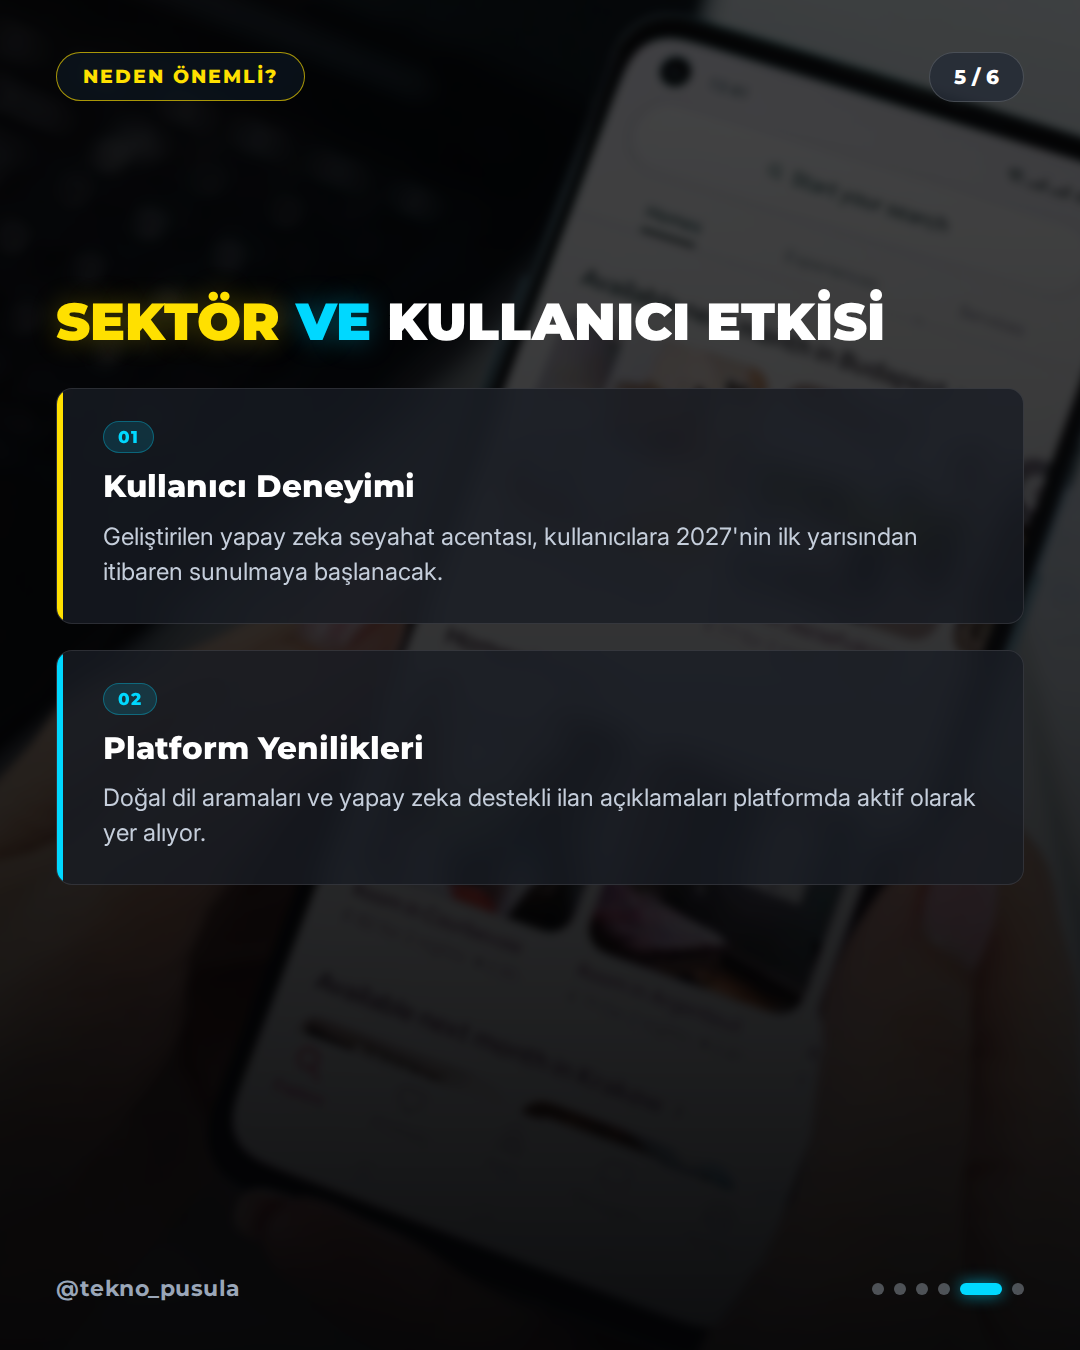
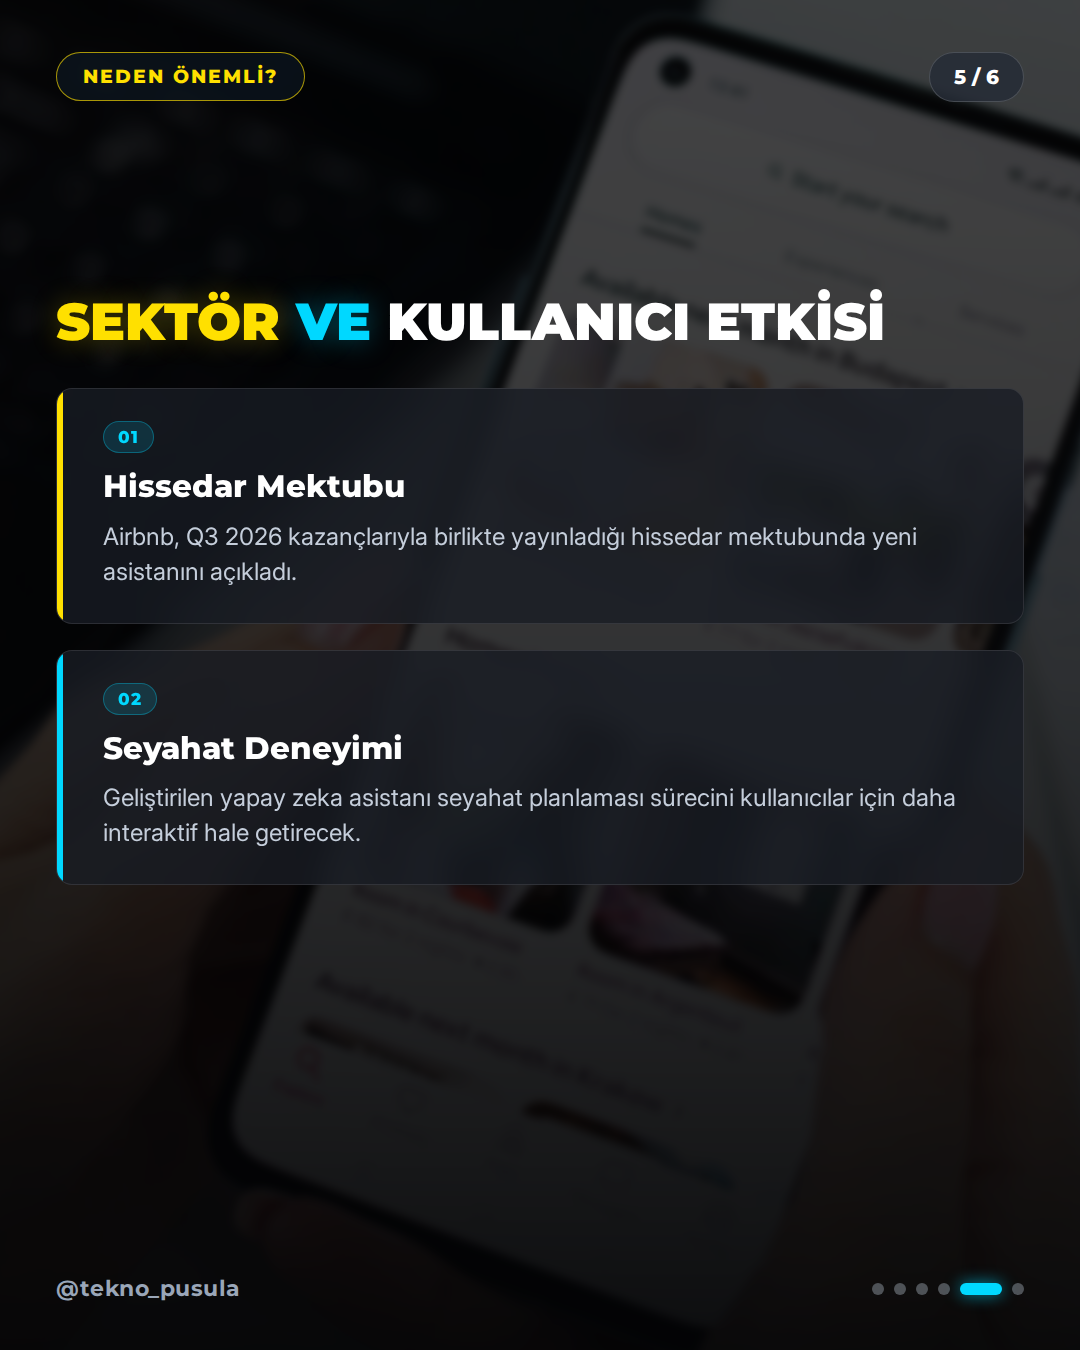
🤖 post: 2026-11-06 12:00 – Airbnb is threatening to launch an AI travel agent next year

Changed region(s): [[0.0917, 0.3422, 0.8556, 0.4356], [0.0917, 0.5289, 0.6111, 0.6222], [0.6417, 0.56, 0.8861, 0.6222]]

diff --git a/output/2026-11-06/02-1200-airbnb-is-threatening-to-launch-an-ai-travel-age/captions.md b/output/2026-11-06/02-1200-airbnb-is-threatening-to-launch-an-ai-travel-age/captions.md
@@ -2,50 +2,62 @@
 
 ## INSTAGRAM
 
-Airbnb'den dev yapay zeka hamlesi! Q3 2026 hissedar mektubunda duyurulan yeni yapay zeka seyahat acentası, seyahat planlama deneyimini tamamen dönüştürmeye hazırlanıyor. Şirket, doğal dil aramaları ve ilan açıklamalarının ardından bu yeni deneyimi 2027 yılının ilk yarısında kullanıcılarla buluşturacak. Sektördeki bu gelişme hakkında ne düşünüyorsunuz? Airbnb'nin yeni yapay zeka seyahat acentası seyahat planlama alışkanlıklarınızı nasıl değiştirecek? Teknoloji dünyasındaki en güncel gelişmeler için takipte kalın! Kaynak: Engadget ve The Verge
+Airbnb seyahat deneyimini kökten değiştirecek yeni yapay zeka asistanını duyurdu! 🌍 Q3 2026 hissedar mektubunda açıklanan bu yenilik, seyahat planlamasını daha interaktif hale getirecek.
 
-#Airbnb #YapayZeka #Teknoloji #Seyahat #Gelecek #AI #TravelTech #Inovasyon
+Asistan, kullanıcıların sorularına göre gerçeğe yakın arayüzler oluşturabilecek. Haritalar, fotoğraflar ve seyahat programları da bu deneyime dahil.
+
+Yeni yapay zeka deneyimi 2027 yılının ilk yarısında kullanıcılara sunulmaya başlanacak. Daha önce doğal dil ile arama ve ilan açıklamaları gibi özellikler de hayata geçirilmişti.
+
+Airbnb'nin yeni yapay zeka asistanı seyahat planlarınızı nasıl etkiler? Teknoloji dünyasındaki gelişmeleri kaçırmamak için bizi takipte kalın!
+
+Kaynak: The Verge, Engadget
+
+#Airbnb #YapayZeka #ArtificialIntelligence #Seyahat #Travel #Teknoloji #Technology #TheVerge #Engadget
 
 ## TIKTOK
 
-Airbnb Q3 2026 mektubunda duyurdu: Yeni yapay zeka seyahat acentası 2027'nin ilk yarısında geliyor! Doğal dil aramaları ve yapay zeka destekli ilanlar zaten aktif. Airbnb'nin yeni yapay zeka seyahat acentası seyahat planlama alışkanlıklarınızı nasıl değiştirecek? Teknoloji dünyasındaki en güncel gelişmeler için takipte kalın! Kaynak: The Verge
+Airbnb'den seyahat deneyimini değiştirecek devrim niteliğinde yapay zeka asistanı! 2027'de geliyor. Sizin planlarınızı nasıl etkiler? Kaynak: The Verge, Engadget
 
-#Airbnb #YapayZeka #Seyahat #Teknoloji #Gelecek
+#Airbnb #YapayZeka #Seyahat #Teknoloji
 
 ## X
 
-Airbnb, Q3 2026 mektubunda yeni yapay zeka seyahat acentasını duyurdu! 2027'nin ilk yarısında kullanıcılarla buluşacak. Sizce bu hamle seyahat alışkanlıklarını nasıl değiştirecek? Kaynak: Engadget
+Airbnb, seyahat deneyimini dönüştürecek yeni yapay zeka asistanını duyurdu! Gerçekçi arayüz ve zengin içerik sunacak bu deneyim, 2027'nin ilk yarısında kullanıma sunulacak. Kaynak: The Verge, Engadget
 
 #Airbnb #YapayZeka
 
 ## THREADS
 
-Airbnb'den Yeni Yapay Zeka Hamlesi
+Airbnb'den Yeni Yapay Zeka Asistanı
 
-Airbnb, Q3 2026 hissedar mektubunda yeni yapay zeka seyahat acentasını duyurdu. Doğal dil aramaları ve ilan açıklamalarının ardından bu yeni deneyim 2027'nin ilk yarısında sunulmaya başlanacak.
+Airbnb, Q3 2026 hissedar mektubunda seyahat deneyimini dönüştürecek yeni yapay zeka asistanını duyurdu. Yeni asistan; haritalar, fotoğraflar ve seyahat programları içeren gerçeğe yakın bir arayüz sunacak ve 2027'nin ilk yarısında kullanıma sunulacak. 💭
 
-Airbnb'nin yeni yapay zeka seyahat acentası seyahat planlama alışkanlıklarınızı nasıl değiştirecek? Teknoloji dünyasındaki en güncel gelişmeler için takipte kalın!
+Airbnb'nin yeni yapay zeka asistanı seyahat planlarınızı nasıl etkiler?
 
-💭 Kaynak: Engadget ve The Verge
+Kaynak: The Verge, Engadget
 
 #Airbnb
 
 ## LINKEDIN
 
-Teknoloji ve seyahat sektörünün kesişiminde önemli bir gelişme yaşandı. Airbnb, Q3 2026 hissedar mektubunda yeni yapay zeka seyahat acentasını resmi olarak duyurdu. Şirket, halihazırda sunduğu doğal dil aramaları ve yapay zeka destekli ilan açıklamaları özelliklerini bir adım öteye taşıyarak bu yeni deneyimi 2027 yılının ilk yarısında kullanıcılarla buluşturacak. Sektördeki bu yenilikçi hamle, kullanıcı deneyimini ve platform dinamiklerini yakından etkileyecek.
+Teknoloji ve seyahat sektörü entegrasyonunda yeni bir adım: Airbnb, seyahat deneyimini dönüştürecek yeni yapay zeka asistanını duyurdu.
 
-Airbnb'nin yeni yapay zeka seyahat acentası seyahat planlama alışkanlıklarınızı nasıl değiştirecek? Teknoloji dünyasındaki en güncel gelişmeler için takipte kalın!
+Q3 2026 kazançlarıyla birlikte açıklanan bu yenilik; doğal dil işleme, akıllı arama ve otomatik ilan açıklamalarının ardından eklenen kapsamlı bir asistan deneyimi sunuyor. Gerçekçi arayüzü sayesinde haritalar, fotoğraflar ve özel seyahat programları tek bir noktada birleşecek.
 
-Kaynak: Engadget ve The Verge
+Sistem, 2027 yılının ilk yarısında kullanıcılara sunulmaya başlanacak. Sektördeki bu yapay zeka odaklı dönüşüm hakkında ne düşünüyorsunuz?
 
-#Airbnb #YapayZeka #SeyahatTeknolojisi #Inovasyon #DijitalDonusum
+Kaynak: The Verge, Engadget
+
+#Airbnb #YapayZeka #SeyahatTeknolojisi #Inovasyon #Teknoloji
 
 ## FACEBOOK
 
-Airbnb'den dev yapay zeka hamlesi! Q3 2026 hissedar mektubunda duyurulan yeni yapay zeka seyahat acentası, seyahat planlama deneyimini tamamen dönüştürmeye hazırlanıyor. Şirket, doğal dil aramaları ve ilan açıklamalarının ardından bu yeni deneyimi 2027 yılının ilk yarısında kullanıcılarla buluşturacak.
+Airbnb, seyahat deneyimini kökten değiştirecek yeni yapay zeka asistanını duyurdu! Q3 2026 hissedar mektubunda açıklanan bu yenilikle birlikte seyahat planlaması artık çok daha interaktif.
 
-Airbnb'nin yeni yapay zeka seyahat acentası seyahat planlama alışkanlıklarınızı nasıl değiştirecek? Teknoloji dünyasındaki en güncel gelişmeler için takipte kalın!
+Yeni asistan, kullanıcıların soruları etrafında gerçeğe yakın bir arayüz oluşturacak ve arayüze haritalar, fotoğraflar ile seyahat programları ekleyebilecek. Bu yeni deneyim 2027 yılının ilk yarısında kullanıcılara sunulmaya başlanacak.
 
-Kaynak: Engadget ve The Verge
+Airbnb'nin yeni yapay zeka asistanı seyahat planlarınızı nasıl etkiler? Teknoloji dünyasındaki gelişmeleri kaçırmamak için bizi takipte kalın!
 
-#Airbnb #YapayZeka #Seyahat #Teknoloji #Gelecek
+Kaynak: The Verge, Engadget
+
+#Airbnb #YapayZeka #Seyahat #Teknoloji

diff --git a/output/2026-11-06/02-1200-airbnb-is-threatening-to-launch-an-ai-travel-age/verification.md b/output/2026-11-06/02-1200-airbnb-is-threatening-to-launch-an-ai-travel-age/verification.md
@@ -3,36 +3,40 @@
 **Haber:** Airbnb is threatening to launch an AI travel agent next year
 **Canonical URL:** https://www.engadget.com/2308832/airbnb-ai-travel-agent-2027-launch/
 **Kaynaklar:** Engadget, The Verge, TechCrunch, OpenAI News
-**Kontrol zamanı:** 2026-11-06T12:07:21+03:00
+**Kontrol zamanı:** 2026-11-06T12:12:47+03:00
 **Sonuç:** ✅ YAYINLANABİLİR
 
 ---
 
 ## İddia Bazlı Sonuçlar
 
-### 1. Airbnb, Q3 2026 kazançları ile birlikte yayınladığı hissedar mektubunda yapay zeka seyahat acetası geliştirdiğini açıkladı.
+### 1. Airbnb, Q3 2026 kazançlarıyla birlikte yayınladığı hissedar mektubunda yeni bir yapay zeka seyahat asistanı geliştirdiğini açıkladı.
 - **Karar:** ✅ `supported`
 - **Kanıtlar:**
   - [https://www.engadget.com/2308832/airbnb-ai-travel-agent-2027-launch/](https://www.engadget.com/2308832/airbnb-ai-travel-agent-2027-launch/)
     > The company has revealed that it's developing a new kind of AI agent, which will be designed to serve as a travel agent of sorts, in its letter for shareholders that it released with its Q3 2026 earnings.
 
-### 2. Airbnb, yeni yapay zeka deneyimini kullanıcıların kullanımına 2027 yılının ilk yarısında sunmaya başlayacak.
+### 2. Airbnb'nin geliştirdiği yapay zeka asistanı, kullanıcıların soruları etrafında gerçeğe yakın bir arayüz oluşturacak.
+- **Karar:** ✅ `supported`
+- **Kanıtlar:**
+  - [https://www.engadget.com/2308832/airbnb-ai-travel-agent-2027-launch/](https://www.engadget.com/2308832/airbnb-ai-travel-agent-2027-launch/)
+    > Airbnb said it's building a brand new interface that offers a custom AI experience that "builds the interface around your question."
+
+### 3. Yapay zeka seyahat asistanı arayüze haritalar, fotoğraflar, seyahat programları ve karşılaştırmalar ekleyebilecek.
+- **Karar:** ✅ `supported`
+- **Kanıtlar:**
+  - [https://www.engadget.com/2308832/airbnb-ai-travel-agent-2027-launch/](https://www.engadget.com/2308832/airbnb-ai-travel-agent-2027-launch/)
+    > The AI travel agent will be able to add maps, photos and even itineraries and comparisons to the interface in real time.
+
+### 4. Airbnb, yeni yapay zeka deneyimini 2027 yılının ilk yarısında kullanıcılara sunmaya başlayacak.
 - **Karar:** ✅ `supported`
 - **Kanıtlar:**
   - [https://www.engadget.com/2308832/airbnb-ai-travel-agent-2027-launch/](https://www.engadget.com/2308832/airbnb-ai-travel-agent-2027-launch/)
     > It will start rolling out the new experience to users sometime in the first half of 2027.
 
-### 3. Airbnb, aylarca önce doğal dil kullanarak arama yapmanızı sağlayan yapay zeka aramasını başlattı.
+### 5. Airbnb birkaç ay önce doğal dil kullanarak sorgulama yapmayı sağlayan yapay zeka araması özelliğini ve ilanlar için yapay zeka açıklamalarını başlattı.
 - **Karar:** ✅ `supported`
 - **Kanıtlar:**
-  - [https://www.engadget.com/2308832/airbnb-ai-travel-agent-2027-launch/](https://www.engadget.com/2308832/airbnb-ai-travel-agent-2027-launch/)
-    > Just a couple of months ago, it launched AI search, which lets you make inquiries using natural language
-
-### 4. Airbnb, platformunda ilanlar için yapay zeka açıklamaları özelliğini başlattı.
-- **Karar:** ✅ `supported`
-- **Kanıtlar:**
-  - [https://www.engadget.com/2308832/airbnb-ai-travel-agent-2027-launch/](https://www.engadget.com/2308832/airbnb-ai-travel-agent-2027-launch/)
-    > as well as AI descriptions for listings.
   - [https://www.engadget.com/2308832/airbnb-ai-travel-agent-2027-launch/](https://www.engadget.com/2308832/airbnb-ai-travel-agent-2027-launch/)
     > Just a couple of months ago, it launched AI search, which lets you make inquiries using natural language, as well as AI descriptions for listings.
 
@@ -42,10 +46,11 @@
 
 | İddia | 1. Tur | 2. Tur | Nihai |
 |-------|--------|--------|-------|
-| Airbnb, Q3 2026 kazançları ile birlikte yayınladığı hissedar | supported | supported | supported |
-| Airbnb, yeni yapay zeka deneyimini kullanıcıların kullanımın | supported | supported | supported |
-| Airbnb, aylarca önce doğal dil kullanarak arama yapmanızı sa | supported | supported | supported |
-| Airbnb, platformunda ilanlar için yapay zeka açıklamaları öz | supported | supported | supported |
+| Airbnb, Q3 2026 kazançlarıyla birlikte yayınladığı hissedar  | supported | supported | supported |
+| Airbnb'nin geliştirdiği yapay zeka asistanı, kullanıcıların  | supported | supported | supported |
+| Yapay zeka seyahat asistanı arayüze haritalar, fotoğraflar,  | supported | supported | supported |
+| Airbnb, yeni yapay zeka deneyimini 2027 yılının ilk yarısınd | supported | supported | supported |
+| Airbnb birkaç ay önce doğal dil kullanarak sorgulama yapmayı | supported | supported | supported |
 
 ## Kaynak Metinleri
 
